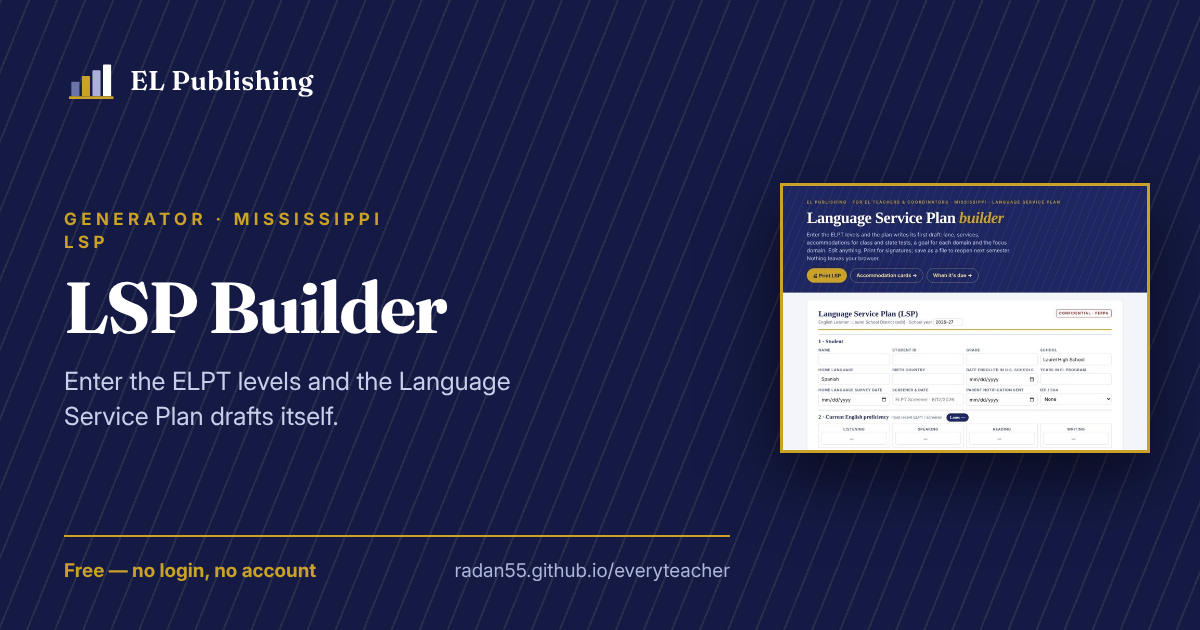
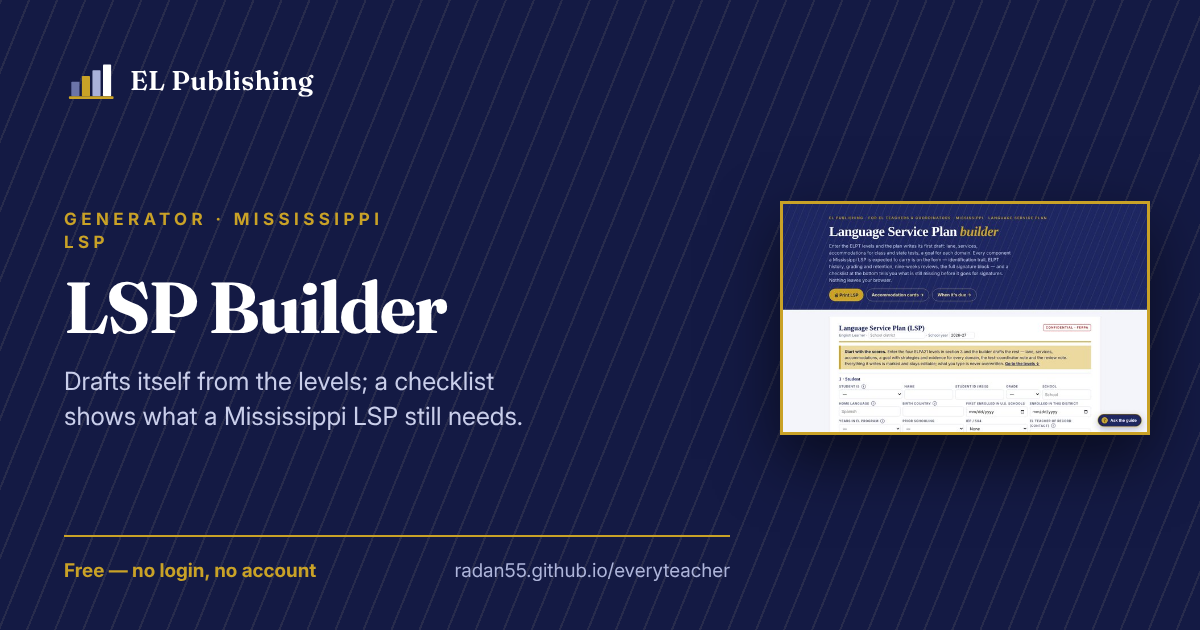
A Featured section on the home page
Between "Try one right now" and "Start here": one lead card with its
thumbnail and three beside it, picked by hand in tools/featured.py rather
than by date — the LSP Builder leads, with Cognate Hunt, By Subject &
Grade and Sheltered alongside. Every href is checked against the catalog
at build. The LSP Builder thumbnail was re-shot; the old one still showed
the removed district defaults.

Claude-Session: https://claude.ai/code/session_0112p9tpDDB4NQhmXFKLxnze

Changed region(s): [[0.6475, 0.2714, 0.9558, 0.7238], [0.0308, 0.573, 0.4317, 0.6937]]

diff --git a/index.html b/index.html
@@ -86,6 +86,29 @@
     .face{display:block}
   }
 
+
+  /* ===== FEATURED ===== */
+  .featured{background:var(--paper);border-top:1px solid var(--rule);border-bottom:1px solid var(--rule);padding:38px 0 42px;margin-top:30px}
+  .featured h2{margin:0}
+  .feat{display:grid;grid-template-columns:1.25fr 1fr;gap:18px;margin-top:18px;align-items:stretch}
+  .f-lead{display:grid;grid-template-rows:auto 1fr;background:var(--navy-bg);color:#fff;text-decoration:none;border:1px solid var(--navy);overflow:hidden;position:relative}
+  .f-lead img{width:100%;aspect-ratio:16/9;object-fit:cover;object-position:top;display:block;border-bottom:3px solid var(--gold)}
+  .f-body{padding:18px 22px 20px}
+  .f-tag{display:inline-block;font-size:11px;letter-spacing:.18em;text-transform:uppercase;color:var(--gold);font-weight:700;margin-bottom:8px}
+  .f-lead b{display:block;font-family:Fraunces,Georgia,serif;font-size:clamp(22px,2.6vw,30px);font-weight:700;line-height:1.1;letter-spacing:-.01em}
+  .f-lead p{margin:8px 0 10px;font-size:15px;line-height:1.5;color:#D6DAF0;max-width:52ch}
+  .f-lead small{font-size:12.5px;color:#AEB5DA;letter-spacing:.04em}
+  .f-lead:hover{box-shadow:0 18px 44px rgba(20,26,68,.3)}
+  .f-more{display:grid;grid-template-rows:repeat(3,1fr);gap:12px}
+  .f-card{display:grid;grid-template-columns:116px 1fr;gap:14px;align-items:center;background:var(--mist);border:1px solid var(--rule);text-decoration:none;color:var(--ink);padding:10px 14px 10px 10px;transition:transform .18s,border-color .18s}
+  .f-card:hover{transform:translateX(3px);border-color:var(--navy)}
+  .f-card img{width:116px;aspect-ratio:16/10;object-fit:cover;object-position:top;display:block;border:1px solid var(--rule)}
+  .f-card b{display:block;font-family:Fraunces,Georgia,serif;font-size:17.5px;font-weight:600;color:var(--navy);line-height:1.15}
+  .f-card p{margin:3px 0 4px;font-size:13.4px;line-height:1.4;color:var(--ink)}
+  .f-card small{font-size:11.5px;color:var(--muted);letter-spacing:.04em}
+  @media (max-width:880px){.feat{grid-template-columns:1fr}.f-more{grid-template-rows:none}}
+  @media (max-width:460px){.f-card{grid-template-columns:1fr}.f-card img{width:100%}}
+
   /* ===== NOW SHOWING · premiere ===== */
   .premiere{background:#070914;color:#fff;position:relative;overflow:hidden;border-top:1px solid rgba(201,162,39,.35);border-bottom:1px solid rgba(201,162,39,.35)}
   .premiere::before{content:"";position:absolute;inset:0;background:radial-gradient(900px 500px at 15% 30%,rgba(30,39,97,.9),transparent 60%),radial-gradient(700px 400px at 90% 80%,rgba(201,162,39,.16),transparent 60%);pointer-events:none}
@@ -439,6 +462,16 @@
   <div class="pgrid"><a class="pcard" href="storm-lens/"><b>Storm Lens</b><i>Point a camera at the room</i><span>The room becomes the word list.</span></a><a class="pcard" href="https://radan55.github.io/el-publishing-grammar-songs/" target="_blank" rel="noopener"><b>Grammar Beats</b><i>Grammar, but as radio songs</i><span>Nouns, adjectives, verbs — with a beat.</span></a><a class="pcard" href="first-100-words.html"><b>First 100 Words</b><i>Tap any word to hear it</i><span>The hundred a newcomer hears first.</span></a><a class="pcard" href="sheltered.html"><b>Sheltered</b><i>Twelve minutes as an EL</i><span>Sit a lesson in a language you don&#x27;t speak.</span></a></div>
 </div>
 <!--/B:play-->
+</section>
+
+<section class="featured" id="featured">
+  <!--B:featured-->
+<div class="wrap">
+<h2>Featured</h2>
+<p class="deck">Four worth opening first — picked by hand, not by date.</p>
+<div class="feat"><a class="f-lead" href="lsp-builder.html"><img src="thumbs/lsp-builder.jpg" alt="" loading="lazy"><div class="f-body"><span class="f-tag">Rebuilt this week</span><b>LSP Builder</b><p>Enter four ELPT levels and the Language Service Plan drafts itself — services, accommodations, a measurable goal for every domain — then checks its own dates and prints only what matters.</p><small>Generator · Mississippi LSP · free</small></div></a><div class="f-more"><a class="f-card" href="cognate-hunt.html"><img src="thumbs/cognate-hunt.jpg" alt="" loading="lazy"><span><b>Cognate Hunt</b><p>Paste tomorrow&#x27;s reading. The words your Spanish speakers already own light up; the false friends go red.</p><small>Tool · 373 pairs</small></span></a><a class="f-card" href="by-subject.html"><img src="thumbs/by-subject.jpg" alt="" loading="lazy"><span><b>By Subject &amp; Grade</b><p>Your subject, your grade band: the language demand, two moves, what to reach for — and 27 free resources from elsewhere.</p><small>Grid · 16 squares</small></span></a><a class="f-card" href="sheltered.html"><img src="thumbs/sheltered.jpg" alt="" loading="lazy"><span><b>Sheltered: 12 Minutes as an English Learner</b><p>Twelve minutes as an English learner. Sit the lesson once in a language you don&#x27;t speak, then again with supports.</p><small>Simulation · 12 minutes</small></span></a></div></div>
+</div>
+<!--/B:featured-->
 </section>
 
 <section class="wrap" id="start">

diff --git a/tools/build.py b/tools/build.py
@@ -27,6 +27,7 @@ import questions  # noqa: E402
 import voices  # noqa: E402
 import play  # noqa: E402
 import bysubject  # noqa: E402
+import featured  # noqa: E402
 
 ROOT = pathlib.Path(__file__).resolve().parent.parent
 FRESH_DAYS = 21
@@ -249,6 +250,31 @@ def play_band():
   <p class="playk">Try one right now</p>
   <div class="pgrid">{cards}</div>
 </div>'''
+
+
+def featured_block():
+    by = {r["href"]: r for r in C}
+    for h in [featured.LEAD[0]] + [m[0] for m in featured.MORE]:
+        if h not in by:
+            sys.exit(f"featured: {h} is not in the catalog.")
+    if len(featured.MORE) != 3:
+        sys.exit("featured: MORE must hold exactly three.")
+    L = by[featured.LEAD[0]]
+    lead = (f'<a class="f-lead" href="{e(L["href"])}"{ext_attr(L["href"])}>'
+            + (f'<img src="{e(L["thumb"])}" alt="" loading="lazy">' if L["thumb"] else "")
+            + f'<div class="f-body"><span class="f-tag">{e(featured.LEAD[2])}</span>'
+            f'<b>{e(L["title"])}</b><p>{e(featured.LEAD[1])}</p>'
+            f'<small>{e(L["fmt"])} · {e(L["size"])} · free</small></div></a>')
+    more = "".join(
+        f'<a class="f-card" href="{e(by[h]["href"])}"{ext_attr(h)}>'
+        + (f'<img src="{e(by[h]["thumb"])}" alt="" loading="lazy">' if by[h]["thumb"] else "")
+        + f'<span><b>{e(by[h]["title"])}</b><p>{e(why)}</p>'
+          f'<small>{e(by[h]["fmt"])} · {e(by[h]["size"])}</small></span></a>'
+        for h, why in featured.MORE
+    )
+    return ('<div class="wrap">\n<h2>Featured</h2>\n'
+            '<p class="deck">Four worth opening first — picked by hand, not by date.</p>\n'
+            f'<div class="feat">{lead}<div class="f-more">{more}</div></div>\n</div>')
 
 
 def guess_game():
@@ -497,6 +523,7 @@ t = p.read_text(encoding="utf-8")
 t = region(t, "now", now_showing(), p)
 t = region(t, "doors", doors(), p)
 t = region(t, "play", play_band(), p)
+t = region(t, "featured", featured_block(), p)
 t = region(t, "game", guess_game(), p)
 t = region(t, "week", week(), p)
 t = region(t, "qa", qa(), p)

diff --git a/tools/featured.py b/tools/featured.py
@@ -1,0 +1,28 @@
+#!/usr/bin/env python3
+"""Featured — the hand-picked few on the home page.
+
+Not the newest (that is Now Showing) and not the pinned resource of the
+week; this is the editor's shelf: one lead and three beside it, chosen
+because they are the best thing on the hub for a visitor who has five
+minutes. Change them whenever something better earns the spot.
+
+Every href is checked against the catalog by tools/build.py.
+
+  LEAD   (href, why, tag)  — the big card, with its thumbnail
+  MORE   [(href, why), …]  — three beside it
+"""
+
+LEAD = ("lsp-builder.html",
+        "Enter four ELPT levels and the Language Service Plan drafts itself — services, "
+        "accommodations, a measurable goal for every domain — then checks its own dates "
+        "and prints only what matters.",
+        "Rebuilt this week")
+
+MORE = [
+    ("cognate-hunt.html",
+     "Paste tomorrow's reading. The words your Spanish speakers already own light up; the false friends go red."),
+    ("by-subject.html",
+     "Your subject, your grade band: the language demand, two moves, what to reach for — and 27 free resources from elsewhere."),
+    ("sheltered.html",
+     "Twelve minutes as an English learner. Sit the lesson once in a language you don't speak, then again with supports."),
+]
